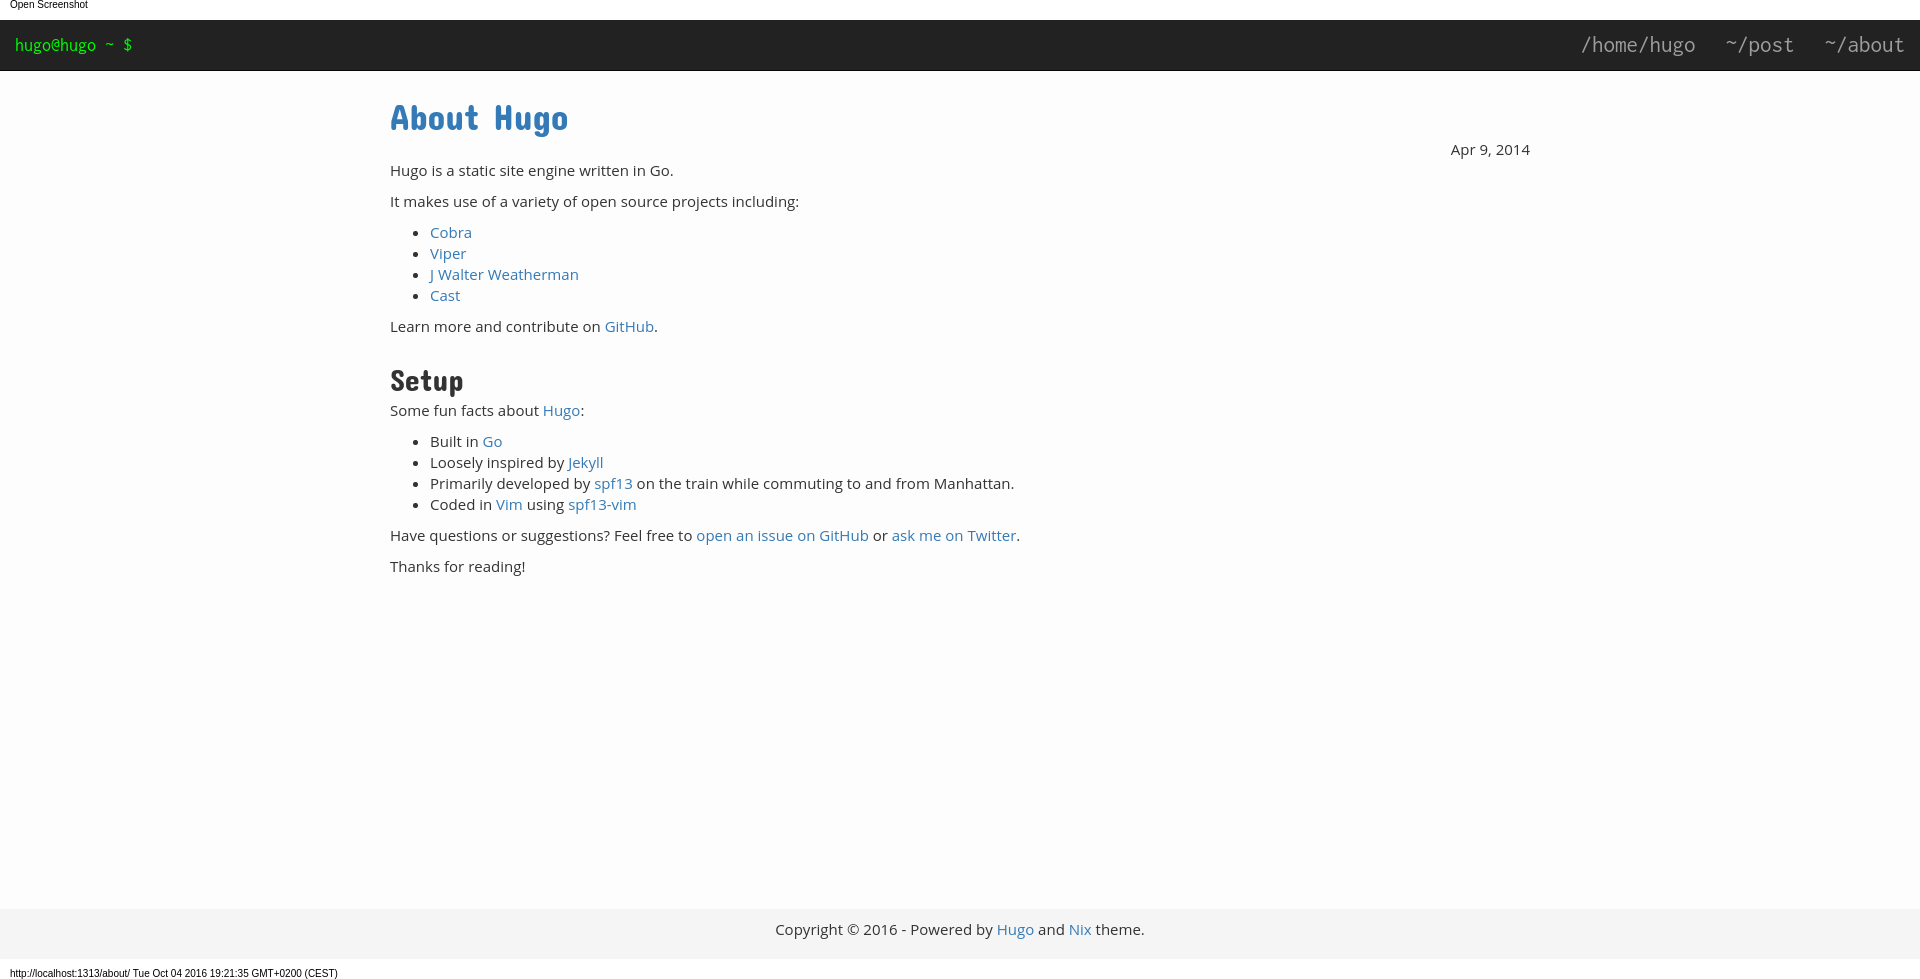
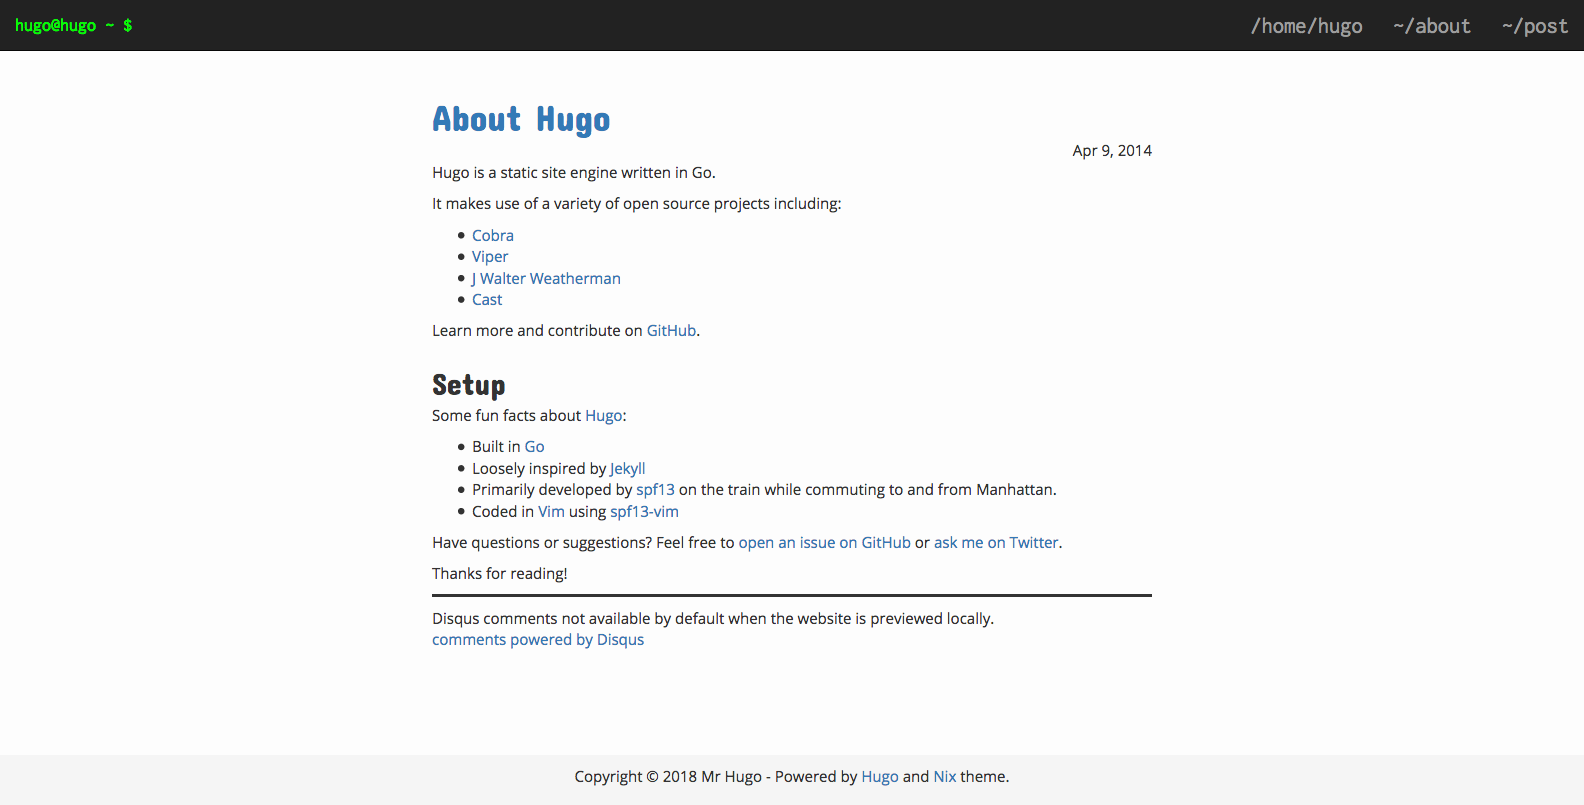
Update images (fixes #42)

diff --git a/README.md b/README.md
@@ -2,7 +2,7 @@
 
 Nix is a simple, minimal theme for Hugo
 
-![Hugo Theme Nix](https://raw.githubusercontent.com/LordMathis/hugo-theme-nix/master/images/screenshot.png)
+![Hugo Theme Nix](https://raw.githubusercontent.com/LordMathis/hugo-theme-nix/master/images/index.png)
 
 ## Usage
 
